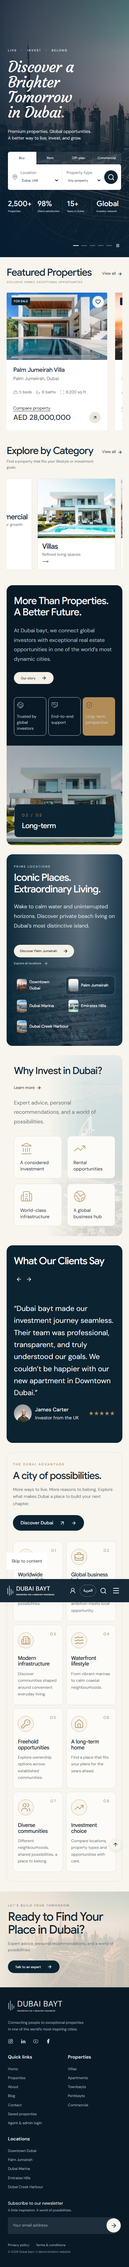
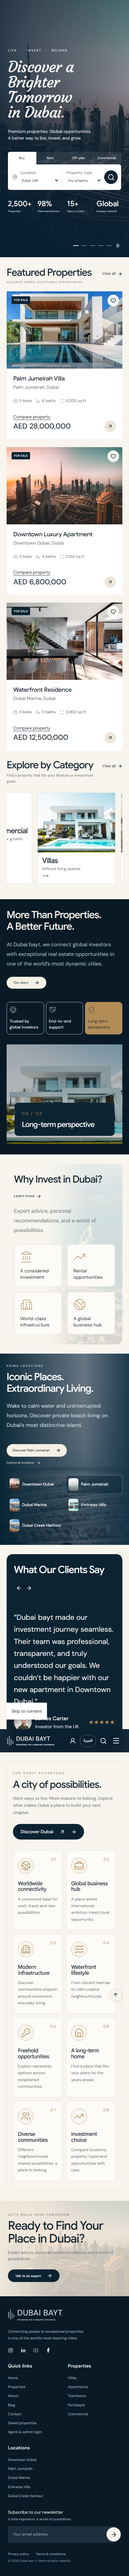
new changes

diff --git a/tests/e2e/home-layout.spec.js b/tests/e2e/home-layout.spec.js
@@ -4,7 +4,7 @@ test('homepage full-width sections and story image controls stay responsive', as
   test.setTimeout(90000);
   await page.goto('/');
   await expect(page.locator('.highlight-card')).toHaveCount(8);
-  for (const selector of ['.featured-section .property-card', '.home-layout .category-card']) {
+  for (const selector of ['.home-layout .category-card']) {
     const tops = await page
       .locator(selector)
       .evaluateAll((items) => items.map((item) => Math.round(item.getBoundingClientRect().top)));
@@ -22,8 +22,17 @@ test('homepage full-width sections and story image controls stay responsive', as
   expect(boxes).toHaveLength(4);
   for (let i = 1; i < boxes.length; i++) {
     expect(boxes[i].y).toBeGreaterThan(boxes[i - 1].bottom);
-    expect(boxes[i].width).toBeCloseTo(boxes[0].width, 0);
   }
+  const backgrounds = await page.locator('.home-layout > .story-showcase, .home-layout > .locations-panel').evaluateAll(items => items.map(item => ({ x: item.getBoundingClientRect().x, width: item.getBoundingClientRect().width })));
+  for (const box of backgrounds) {
+    expect(box.x).toBeCloseTo(0, 0);
+    expect(box.width).toBeCloseTo(1440, 0);
+  }
+  expect(
+    await page
+      .locator('.featured-section .property-grid')
+      .evaluate((el) => getComputedStyle(el).gridTemplateColumns.split(' ').length),
+  ).toBe(4);
   const storyButtons = page.locator('.story-points button');
   const images = new Set();
   for (let i = 0; i < 3; i++) {
@@ -42,8 +51,11 @@ test('homepage full-width sections and story image controls stay responsive', as
   await page.screenshot({ path: 'artifacts/homepage-new-desktop.png', fullPage: true });
   await page.setViewportSize({ width: 390, height: 844 });
   expect(await page.evaluate(() => document.documentElement.scrollWidth <= innerWidth)).toBe(true);
-  const row = page.locator('.featured-section .single-row');
-  expect(await row.evaluate((el) => el.scrollWidth > el.clientWidth)).toBe(true);
+  expect(
+    await page
+      .locator('.featured-section .property-grid')
+      .evaluate((el) => getComputedStyle(el).gridTemplateColumns.split(' ').length),
+  ).toBe(1);
   await page.locator('.dubai-highlights').scrollIntoViewIfNeeded();
   await page.screenshot({ path: 'artifacts/homepage-new-mobile.png', fullPage: true });
   await page.getByRole('button', { name: 'التبديل إلى العربية', exact: true }).first().click();

diff --git a/src/styles.css b/src/styles.css
@@ -4110,3 +4110,46 @@ details p {
 .story-showcase .story-points button p {
   color: inherit;
 }
+
+/* Edge-to-edge backgrounds with content aligned to the page container. */
+.home-layout {
+  --home-gutter: var(--gutter);
+}
+.home-layout > .story-showcase,
+.home-layout > .locations-panel {
+  width: calc(100% + 2 * var(--home-gutter));
+  margin-inline: calc(-1 * var(--home-gutter));
+  padding-inline: var(--home-gutter);
+  border-radius: 0;
+}
+.home-layout .story-showcase > div:first-child {
+  padding-inline-start: 0;
+}
+.home-layout .featured-section .property-grid {
+  grid-template-columns: repeat(4, minmax(0, 1fr));
+  gap: 24px;
+}
+.home-layout .featured-section .property-card {
+  min-width: 0;
+}
+@media (max-width: 1100px) {
+  .home-layout .featured-section .property-grid {
+    grid-template-columns: repeat(2, minmax(0, 1fr));
+  }
+}
+@media (max-width: 900px) {
+  .home-layout .story-showcase > div:first-child {
+    padding-inline: 0;
+  }
+  .home-layout > .story-showcase {
+    padding-bottom: 32px;
+  }
+}
+@media (max-width: 600px) {
+  .home-layout {
+    --home-gutter: 20px;
+  }
+  .home-layout .featured-section .property-grid {
+    grid-template-columns: minmax(0, 1fr);
+  }
+}

diff --git a/src/pages/Home.jsx b/src/pages/Home.jsx
@@ -357,7 +357,7 @@ export default function Home() {
             subtitle={t('EXCLUSIVE HOMES, EXCEPTIONAL OPPORTUNITIES')}
             to="/properties"
           />
-          <PropertyGrid properties={properties.filter((p) => p.featured)} singleRow />
+          <PropertyGrid properties={properties.filter((p) => p.featured)} />
         </Reveal>
         <Categories compact singleRow />
         <StoryShowcase />
